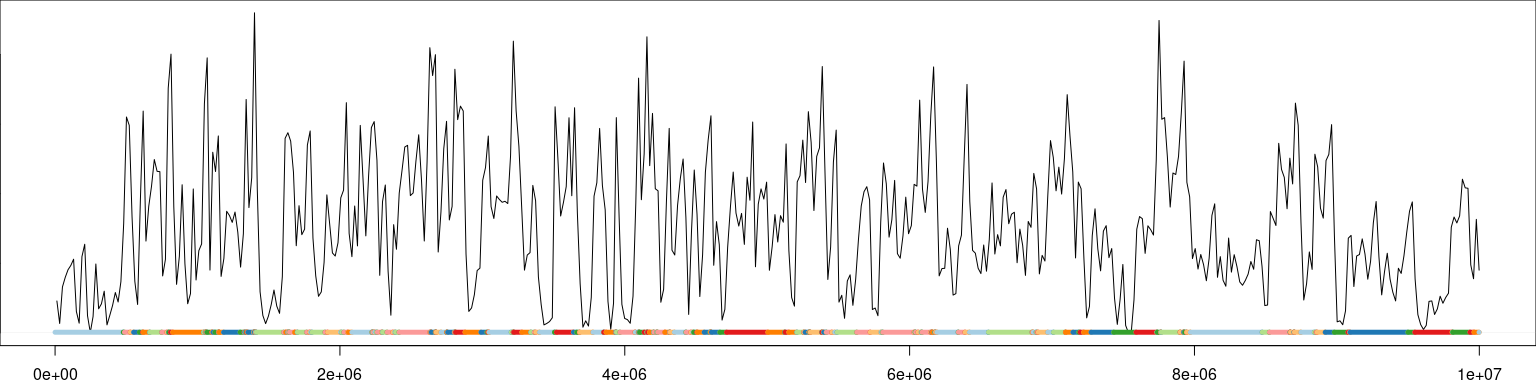
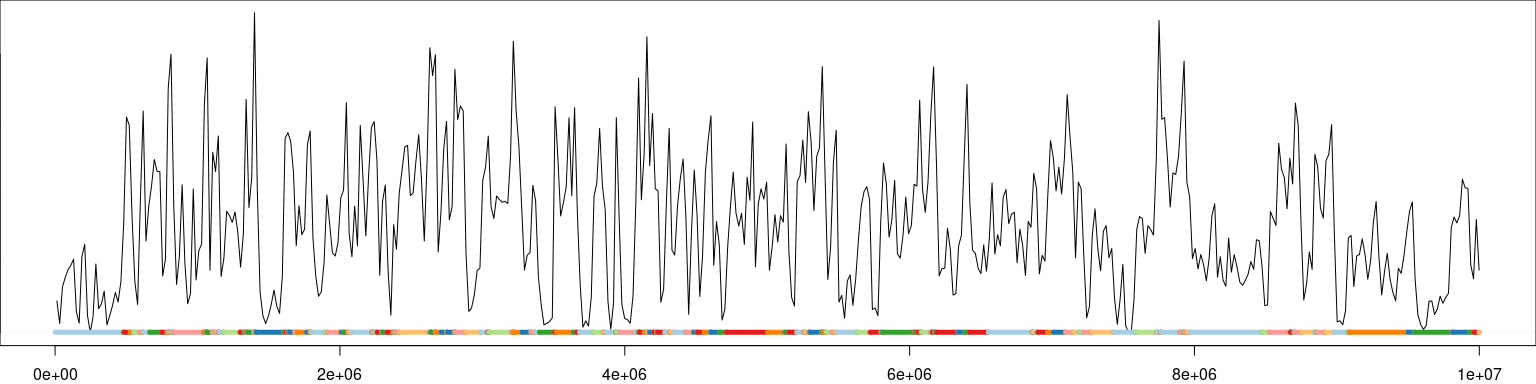
hist

Changed region(s): [[0.0625, 0.8438, 0.4688, 0.875], [0.5, 0.8438, 0.7812, 0.875], [0.8438, 0.8438, 0.9688, 0.875]]

diff --git a/README.md b/README.md
@@ -156,6 +156,7 @@ p <- ggplot(data=data.frame(Ls=Ls,block_divergences=block_divergences), aes(Ls, 
 ```
 
 <img src="man/figures/README-blocks-1.png" width="50%" height="50%" />
+
 In total there are 739 blocks with the total length of 1769587 bp.
 
 ### Segmentation of the genomes
@@ -183,10 +184,10 @@ for (i in order(-Ls))
 taus <- nmutsS/Ks
 end_time <- Sys.time()
 print(end_time - start_time)
-#> Time difference of 0.2165151 secs
+#> Time difference of 0.2218208 secs
 ```
 
-In total there are 2686 segments.
+In total there are 2697 segments.
 
 Plotting divergences and lengths of the segments:
 
@@ -282,11 +283,10 @@ for (j in 1:(length(breaks0L)-1))
 taus <- nmutsS/Ks
 end_time <- Sys.time()
 print(end_time - start_time)
-#> Time difference of 1.610972 mins
+#> Time difference of 2.686884 mins
 
 colors <- rep(brewer.pal(name="Paired", n=8),round(length(breaks0L)/8+1))
 par(mar=c(2,0,0,0))
-
 plot(density(muts, bw = 100),main="")   
 for (i in 1:(length(breaks0L)-1))
 {
@@ -295,6 +295,21 @@ for (i in 1:(length(breaks0L)-1))
 ```
 
 <img src="man/figures/README-human breaking to segments-1.png" width="100%" />
+
+Plotting divergences and lengths of the human segments:
+
+``` r
+p <- ggplot(data=data.frame(Ks=Ks[Ks>100],taus=taus[Ks>100]), aes(Ks, taus)) + 
+          geom_point(size=0.2) +
+          theme_bw() +
+          scale_x_continuous(trans='log10',breaks = 10^(-10:10), labels = trans_format("log10", math_format(10^.x))) +
+          scale_y_continuous(limits = c(0, 0.01)) +
+          ylab("segment divergence") + xlab("segment length") + 
+          geom_smooth(method="loess",se=TRUE) 
+  ggExtra::ggMarginal(p, type = "histogram")
+```
+
+<img src="man/figures/README-plot human segments-1.png" width="50%" height="50%" />
 
 Calculating empirical and pseudotheoretical MLDs:
 
